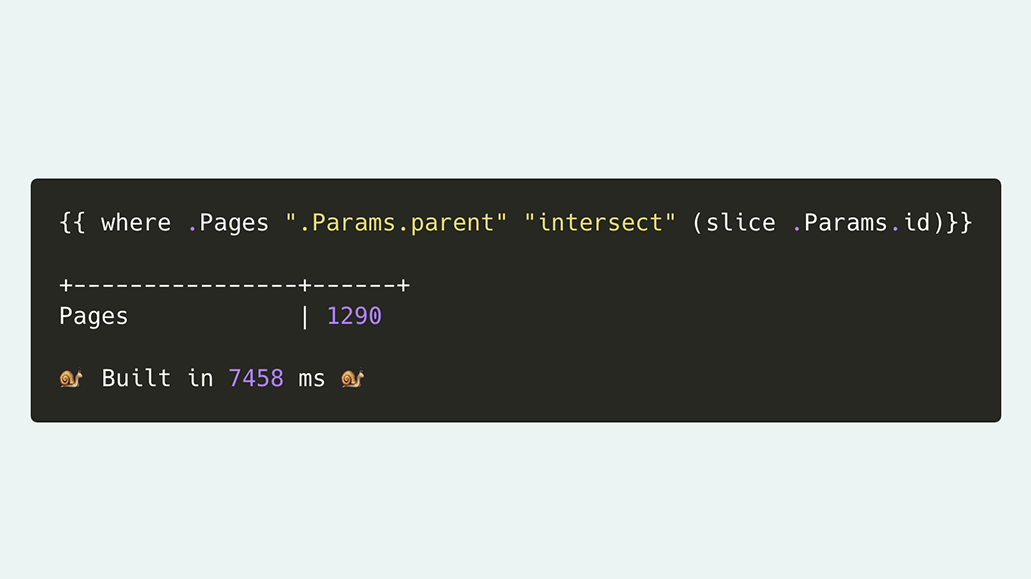
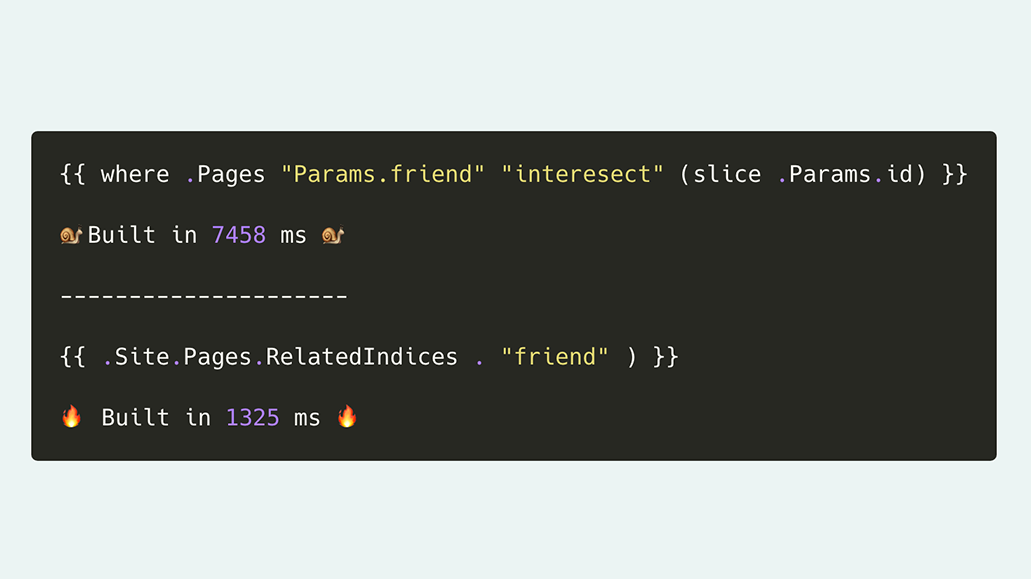
final draft hugo relationship

diff --git a/content/post/hugo-relashionships/index.md b/content/post/hugo-relashionships/index.md
@@ -16,38 +16,44 @@ tags:
 
 I recently set my mind on improving the way I dealt with relationships in my projects by using Hugo’s very own Related Content[^1]. 
 
-__By doing so I slashed the build time by a whopping 70%__ ⏱ 👀!
+__By doing so I slashed the build time by a whopping ... 🥁 ... 70%!__
 
 [^1]: Kudos to [@budparr](https://twitter.com/budparr) for initially suggesting I research Hugo's Related Content to manage relationships in Hugo.
 
-In this article, we’ll see how easy it is to implement Hugo's new Related Content feature on an existing project and how it will forever optimize the way we manage relationships in Hugo!
+This article uncovers how easy it is to implement Hugo's new Related Content feature on an existing project and how it may revolutionize the way we manage relationships in Hugo!
+
+It's time we get better at handling relationships 👫
+
 
 <!--more-->
 
 ## The Project
 
-I created and maintain this french open source [website](http://rougon-macquart.com) about [Les Rougon-Macquart](https://en.wikipedia.org/wiki/Les_Rougon-Macquart) by [Emile Zola](https://en.wikipedia.org/wiki/%C3%89mile_Zola) long before my coding days.
-
+I created this french open source [website](http://rougon-macquart.com) about [Les Rougon-Macquart](https://en.wikipedia.org/wiki/Les_Rougon-Macquart) by [Emile Zola](https://en.wikipedia.org/wiki/%C3%89mile_Zola) long before my coding days.
+<!--
 Copying/pasting character bios in a WordPress has been a rather lenghty hobby, but I ended with the perfect project to test drive new frameworks: WordPress Rest API, AngluarJS and more recently Hugo!
-
-With a thousand entries sharing a healthy relationship, this is the perfect project to tryout our new relationship implementation:
+-->
+With a thousand entries sharing a healthy relationship, this is the perfect project to tryout our new implementation:
 
 - Every 1300 or so character belongs to a few novels and lists them on their page.
 - Every 20 novel holds a lot of characters and lists them on their page.
 
 ## Relationship status before Related Content: it's complicated.
 
-There was no clear way to connect pages together and form consitent and efficient relathionship. Taxonomies came to mind often, but when you need to connect Regular Pages together, they could not do.
+There was no clear way to connect pages together and form consistent and efficient relathionships. Taxonomies came to mind often, but when you needed to connect Regular Pages together, they could not do.
 
 After eliminating Taxonomies, if you were dealing with a [One-to-many relationship](https://en.wikipedia.org/wiki/One-to-many_(data_model)), you may have used `sections` with caution. 
 
-But when implementing the most common [Many-to-many relationship](https://en.wikipedia.org/wiki/Many-to-many_(data_model)), I find the most sensible solution was to establish the relationship via a Front Matter `Param` inside the pages involved. For Zola's Les Rougon Macquart, it undeniably was.
+But when implementing the most common [Many-to-many relationship](https://en.wikipedia.org/wiki/Many-to-many_(data_model)), I find the most sensible solution was to establish the relationship via a Front Matter `Param` inside the pages involved. 
+
+For Zola's Les Rougon-Macquart, it undeniably was.
 
 ### Let's walk through this Front Matter implementation.
 
 In the project, novels can have up to 90 characters. Which means, if we were to have novels' Front Matter list their related characters, we'd end up with a 90 entries array at the top of our `.md` file. This is not ideal.
 
 Beside we don't really need to have our relationship connection refered in both novels and characters.
+
 Characters can have no more than 4 or 5 novels, so we’ll let the characters declare their __few__ novels rather than let the novel declare their __many__ characters.
 
 For the character _Eugène Rougon_ for instance, who appears in 4 novels, we add the following.
@@ -62,7 +68,7 @@ novel:
 ~~~
 
 Now in the novels' Front Matter, we just need to add an identifier key. 
-For the novel « Son excellence Eugène Rougon » in which stars good old Eugène we add:
+For the novel « Son excellence Eugène Rougon » in which stars good old _Eugène_ we add:
 
 
 ```
@@ -75,23 +81,23 @@ We could choose an existing identifier like the filename, but a unique easy to r
 {{</ notice >}}
 
 #### Relationships in our templates
-From [Eugène's landing page](http://rougon-macquart.com/personnage/2010-03-15-rougon-eugene/) we'll need to output the novels he appears in. We can use intersect to build our list:
+From [Eugène's landing page](http://rougon-macquart.com/personnage/2010-03-15-rougon-eugene/) we'll need to output the novels he appears in. We can use `where` and `intersect` to build our list:
 
 ```go
 {{ $characters := where .Site.Pages.ByTitle ".Params.novel" "intersect" (slice .Params.id)}}
 ```
 
-From the novel [Son Excellence Eugène Rougon](http://rougon-macquart.com/roman/1876-son-excellence-eugene-rougon/), as we need to ouput its characters, we use the `where` operator `in`:
+From the novel [Son Excellence Eugène Rougon](http://rougon-macquart.com/roman/1876-son-excellence-eugene-rougon/), as we need to ouput its characters, we use `where` and `in`:
 
 ```go
 {{ $novels := where .Site.Pages.ByTitle ".Params.id" "in" .Params.novel }}
 ```
 
-Done we successuflly implemented a Many-to-many relationship like it's 2016!
+Done! We successuflly implemented a Many-to-many relationship like it's 2016!
 
 Now, all of this works great but…
 
-2. `interesect` ? `where "in"` ? Aren’t we overdoing it a bit ?
+2. `interesect` ? `where in` ? Aren’t we overdoing it a bit ?
 3. 🐌 Built time is roughly __7 times__ Hugo’s average: ~7 seconds for 1300 pages.
 1. 💩 It looks ugly.
 
@@ -105,17 +111,15 @@ Nothing…  that is until Hugo .27
 
 It has been designed to help themes and projects easily build a __« See also »__ module with maximum control on the algorithm. 
 You can set several factors or indices with their own level of importance. 
-Tags, publishing month, authors, anything can help build your related content list.
+Tags, publishing month, authors, can help build your related content list.
 
-Hands down, it is the best tool to grab pages related to a given one using your very own recipe, and if you don't already use it to build your "Related Posts/Products" widget, you should really check its [doc]((https://gohugo.io/content-management/related/)) and play with it. It's rad!
+Hands down, it is the best tool to grab pages related to a given one using your very own recipe, and if you don't already use it to build your _Related Posts_ or _Related Products_ widgets, you should really check its [doc]((https://gohugo.io/content-management/related/)) and play with it. It's rad!
 
-In our case though, we don't need a "Related Novels" module, we need a robust, consistent and build time friendly relationship. And as it turns out, Related Content offers just that!
-
-We don’t even need the fancy indice factor weight, we’d have our one and only indice, `novel`.
+In our case though, we don't need a _Related Novels_ module, we need a robust, consistent and build time friendly relationship. And as it turns out, Related Content offers just that!
 
 ### Implementing Relationships with Related Content
 
-#### Declaring our indice
+#### Declaring our index
 
 First we need to declare our list of indices in our `config.yaml` file. Here, we only need one: `novel` so…
 
@@ -126,17 +130,21 @@ related:
      weight: 1 # We don't really need this, but omitting it would disable the indice.
      includeNewer: true # Here our relationship is timeless! This prevents Hugo from ignoring newer posts.
 ```
+
+{{< notice >}}
+Indices is the plural of index
+{{</ notice >}}
 #### Proper connecting
 
-Our characters’ Front Matter is fine as it is. After all it already list its novels under a Param key matching our indice name, `novel`. 
+Our characters’ Front Matter is fine as it is. After all it already lists its novels under a Param key matching our index name, `novel`. 
 
-On the other hand, our novels identify themselves with `id`, this will not do, they must also match the indice name. So in our novel's Front Matter:
+On the other hand, our novels identify themselves with `id`, this will not do, they must also match the index name. So in our novel's Front Matter:
 
 ```yaml
 title: Son Excellence Eugène Rougon
 novel: excellence # was previously 'id'
 ```
-Good, our novels and characters are now sharing a common `.Page.Param` using the name of our newly declared indice: `novel`.
+Good, our novels and characters are now sharing a common `.Page.Param` key matching the name of our newly declared index: `novel`.
 
 #### Related Content in our templates
 
@@ -147,16 +155,16 @@ __.Related__ _will get every related pages of a given page using the indices and
 __.RelatedIndices__ _will get related pages using one or several given indices. First parameter is the given page, subsequent parameters are the indices used._
 
 
-From our single templates, we will use the `.RelatedIndices` method to fetch our related novels or characters. This is to limit the related pages to our `novel` indice and prevent later added indices like tags or author to interfere with this particular relationship.
+From our single templates, we will use the `.RelatedIndices` method to fetch our related novels or characters. This is to limit the related pages to our `novel` index and prevent later added indices like tags or author to interfere with this particular relationship.
 
-From a novel’s single template, like Son Excellence Eugène Rougon, we can now list all its, forgive my french, « personnages » like so:
+From a novel’s single template, like _Son Excellence Eugène Rougon_, we can now list all its, forgive my french, « personnages » like so:
 
 ```go
 {{ $characters := where (.Site.RegularPages.RelatedIndices . "novel" ) "Type" "personnage" }}
 ```
-_First param is our page context, the given page, second is our familiar indice._
+_First param is our page context, the given page, second is our familiar index._
 
-And from a character’s single, like Eugène, all its « romans » :
+And from a character’s single, like _Eugène_, all its « romans » :
 
 ```go
 {{ $novels := where (.Site.RegularPages.RelatedIndices . "novel" ) "Type" "roman" }}
@@ -167,13 +175,13 @@ That’s it! We now use Hugo's Related Content to manage our Many-to-many relati
 
 And what did we gain beside a cleaner code ?
 
-🚀 __10 seconds!__ ...out of the ~7 we started with... 
+🚀 __6 seconds!__ ...out of the ~7 we started with... 
 
 Build time is now at less than 1.5s. 
 
 {{< notice >}}
 <i class="fab fa-github"></i> 
-If you're curious you can fork the [repo](https://github.com/regisphilibert/rougon) and `hugo --templateMetrics` to your heart content. You can even checkout the branch [`oldRelationship`](https://github.com/regisphilibert/rougon/tree/oldRelationships) to compare it with the former relationship implementation.
+If you're curious you can fork the [repo](https://github.com/regisphilibert/rougon) and `hugo --templateMetrics` to your heart content. You can even checkout the branch [`oldRelationship`](https://github.com/regisphilibert/rougon/tree/oldRelationships) and <span style="font-style:normal">🙄</span> while it builds.
 {{</ notice >}}
 
 # Conclusion
@@ -181,6 +189,4 @@ By simply using the built-in Related Content feature of Hugo instead of a DIY 
 
 There is a tremendous benefit in trying to profit from the amazing power of core Hugo new functionnalities, and this modest article tried to show how easy it was to start using and implementing one of them in your existing projects.
 
-
-Do you agree or disabree that Hugo Related Content is the best way to manage relationships with Hugo? 
-I was personnally unable to find a use case where they're not, but if you do, let me know in the comments!
+If like me, you think Related Content is the way to go to build complex relationship models in Hugo or if, unlike me, you can think of use cases where they're really not ideal, let me know in the comments!
